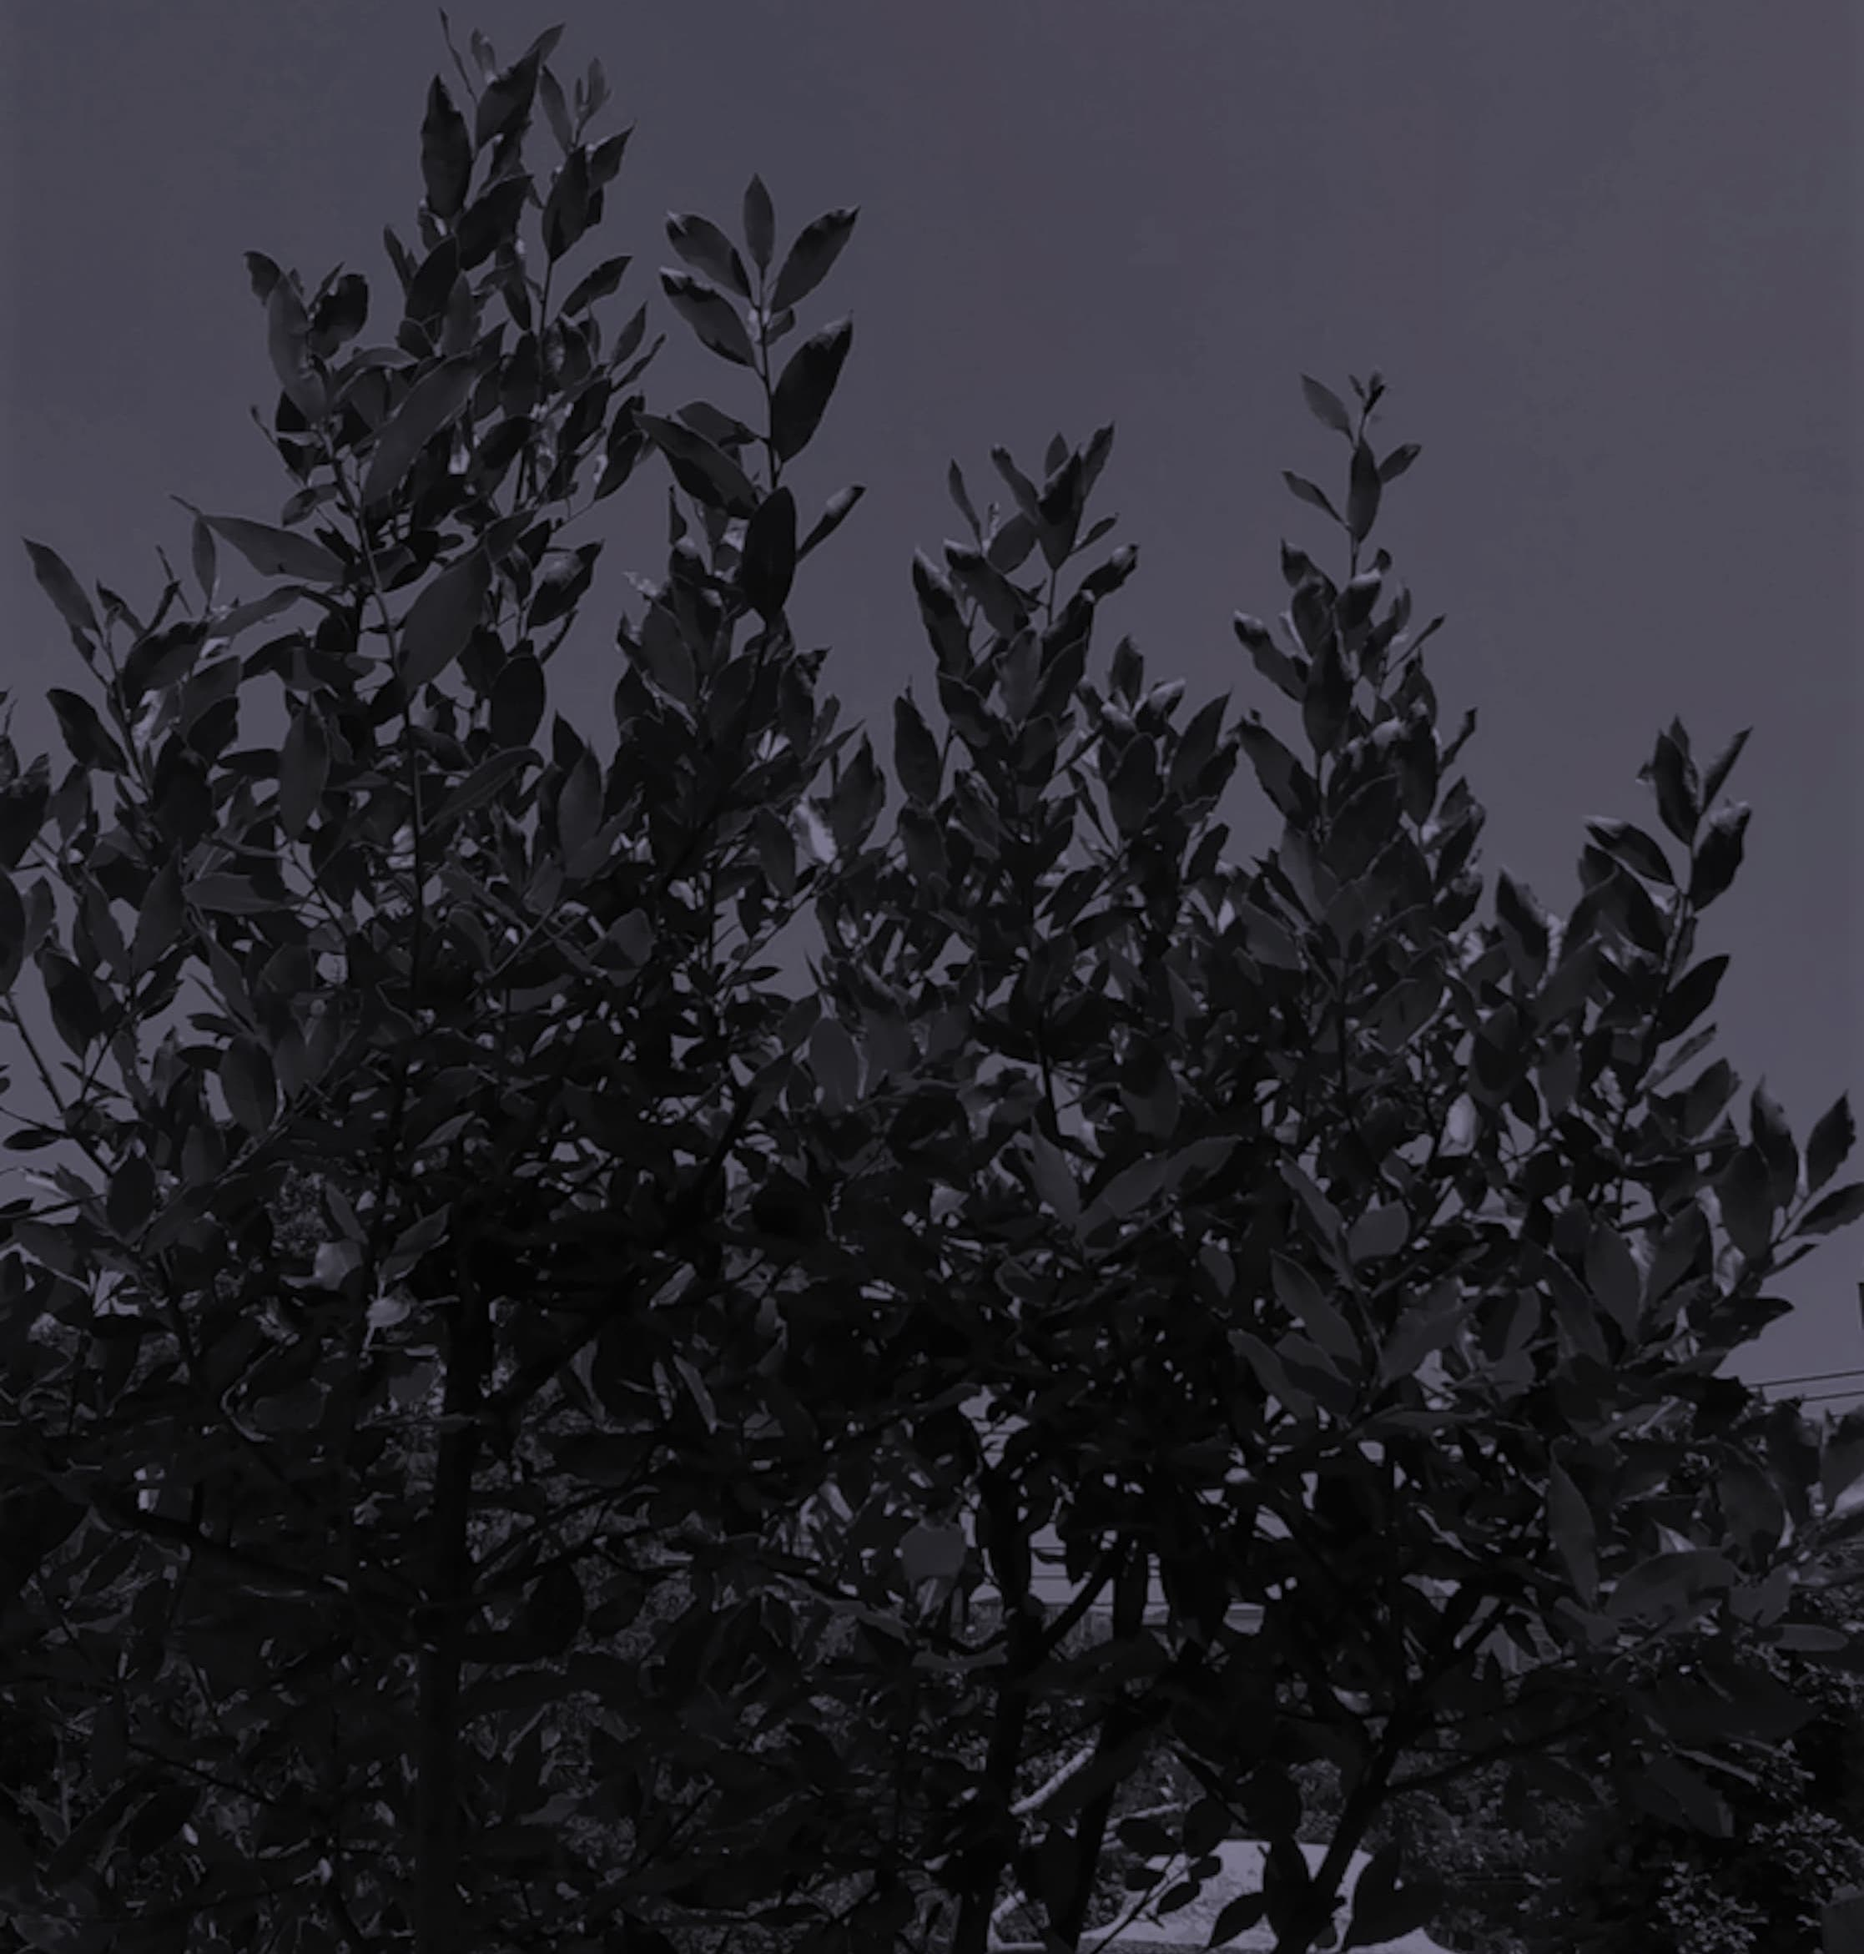
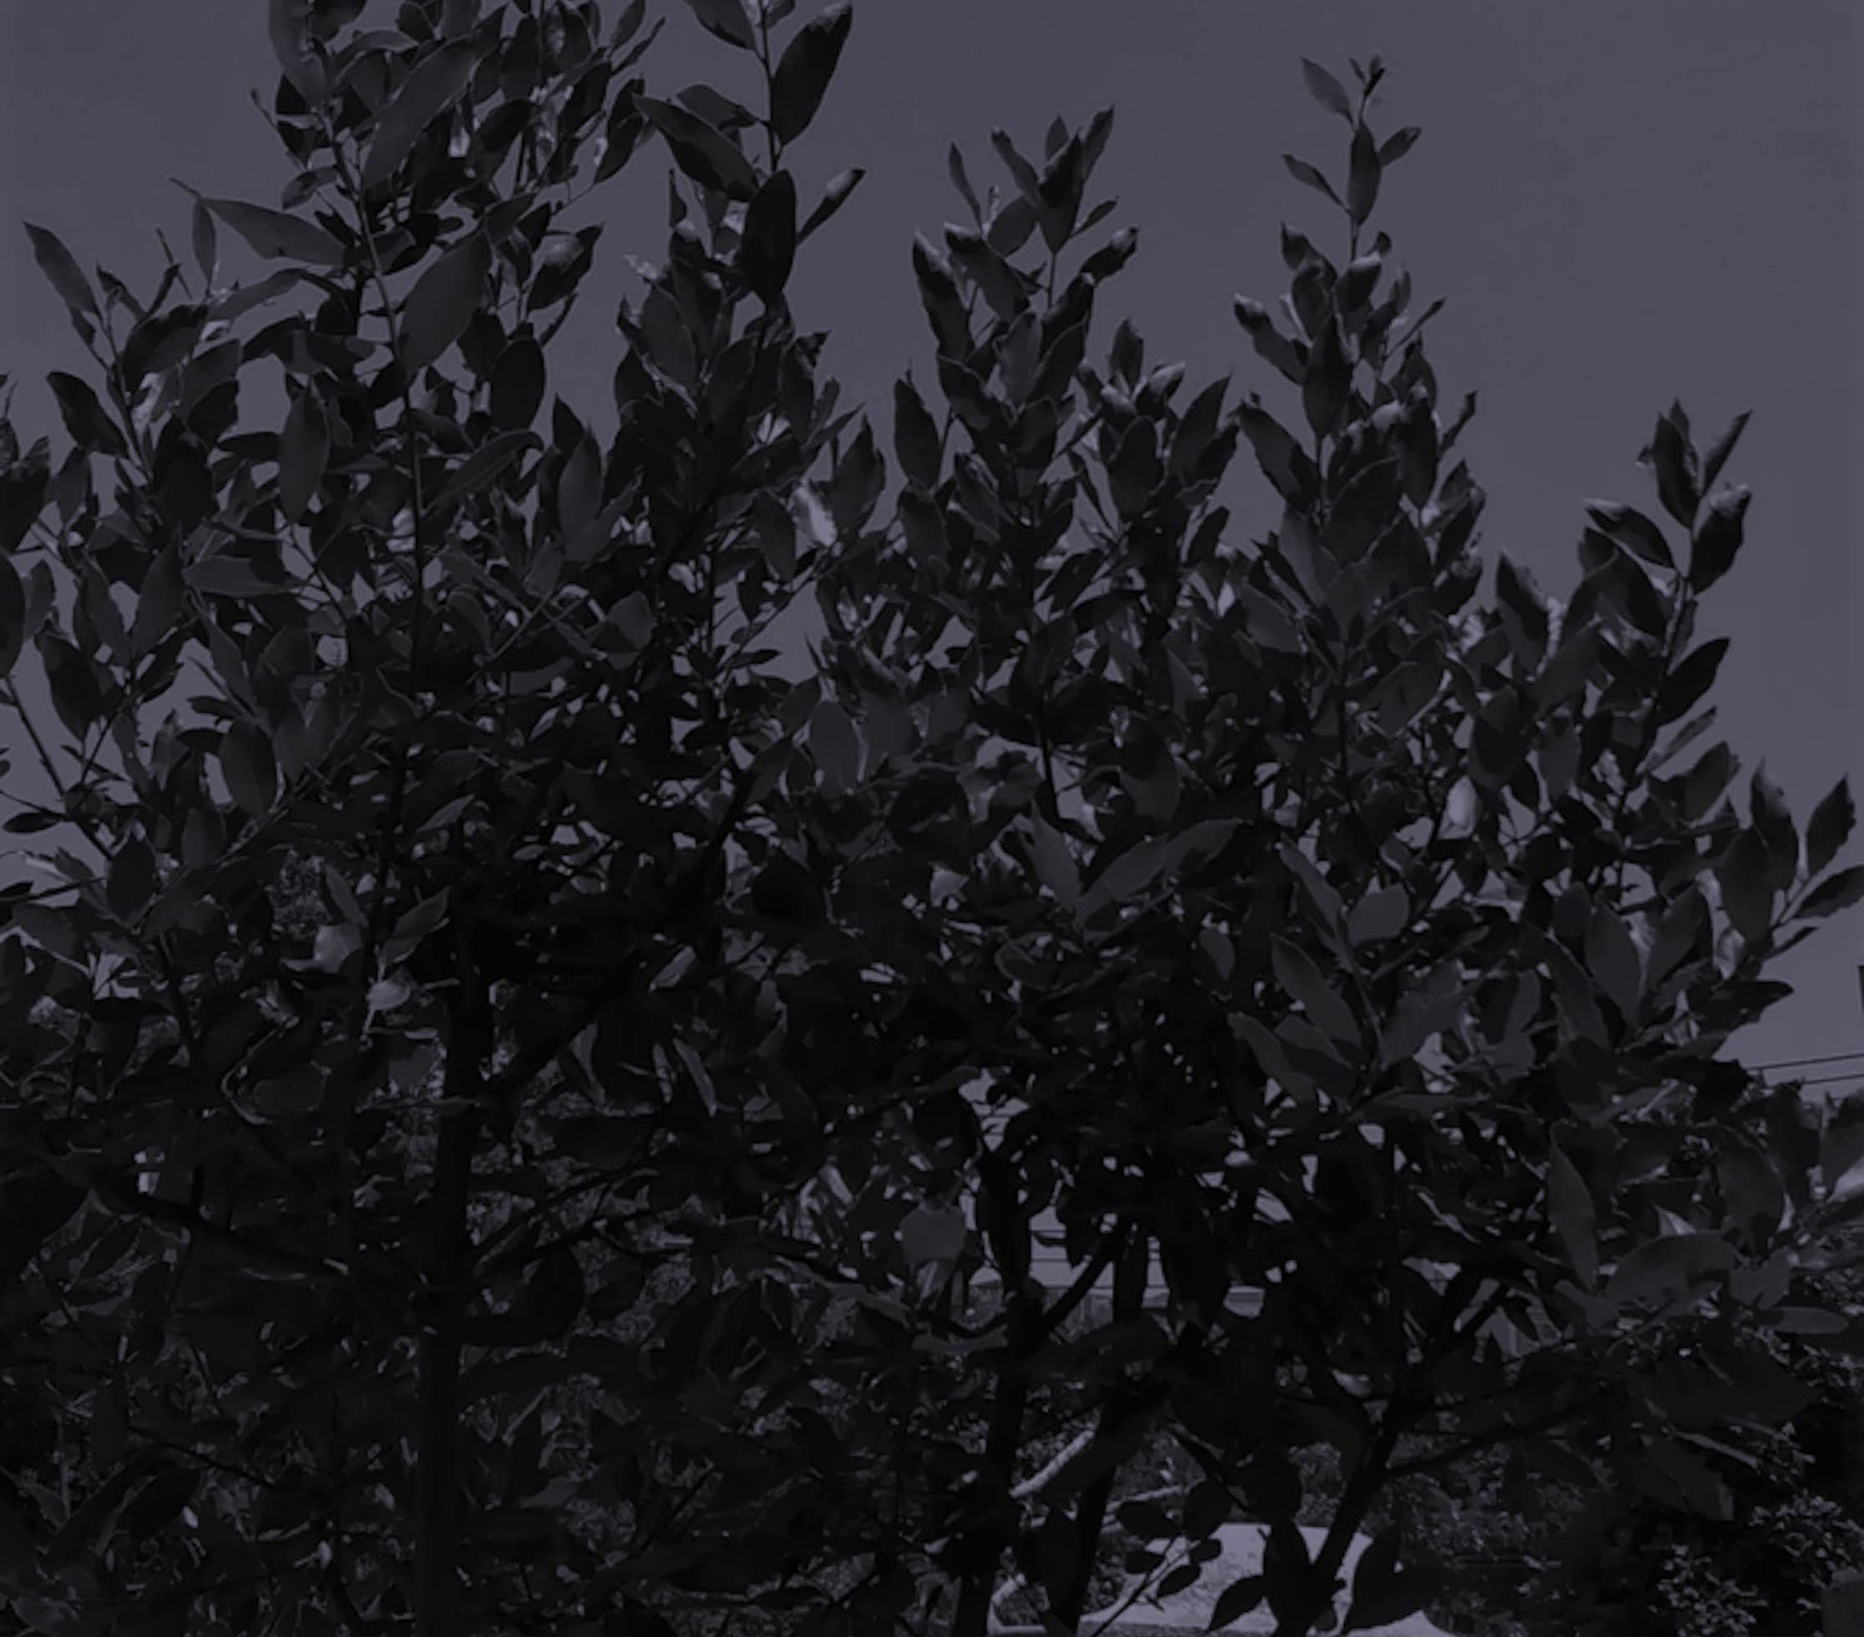
Header: 高さ調整、画像カット、aboutusにopacity設定

diff --git a/src/layout/Header.tsx b/src/layout/Header.tsx
@@ -39,20 +39,20 @@ export const Header: VFC<Props> = (props) => {
         <div
           className={cc([{ "opacity-100": props.opacity === "main" }, { "opacity-0": props.opacity === "aboutus" }])}
         >
-          <div className="hidden lg:block">
+          <div className="hidden md:block">
             <Image
               width="2234px"
-              height="350px"
+              height="401px"
               layout="responsive"
               src="/static/images/header/background-lg.jpg"
               alt={siteMetadata.author}
               priority
             />
           </div>
-          <div className="lg:hidden">
+          <div className="md:hidden">
             <Image
-              width="100%"
-              height="30%"
+              width="1800px"
+              height="401px"
               layout="responsive"
               src="/static/images/header/background.jpg"
               alt={siteMetadata.author}

diff --git a/src/layout/FluidLayout.tsx b/src/layout/FluidLayout.tsx
@@ -1,5 +1,5 @@
 import cc from "classcat";
-// import { useRouter } from "next/router";
+import { useRouter } from "next/router";
 import type { ReactNode, VFC } from "react";
 
 import { Footer } from "./Footer";
@@ -16,12 +16,11 @@ type Props = {
  * @package
  */
 export const FluidLayout: VFC<Props> = (props) => {
-  // const router = useRouter();
-  // const url = "/aboutus"
+  const router = useRouter();
+  const url = "/aboutus";
   return (
     <div className="grid grid-rows-[auto,1fr,auto] min-h-screen">
-      {/* {router.pathname === url ? <Header opacity="aboutus" /> : <Header opacity="main" />} */}
-      <Header opacity="main" />
+      {router.pathname === url ? <Header opacity="aboutus" /> : <Header opacity="main" />}
       <main
         className={cc([
           { "mx-5 break-all sm:mx-10 md:mx-auto md:w-11/12 lg:w-9/12": props.width === "main" },

diff --git a/src/pages/aboutus/index.tsx b/src/pages/aboutus/index.tsx
@@ -68,7 +68,7 @@ const AboutUs: NextPage = () => {
             background-size: cover;
             width: 100vw;
             min-height: 100vh;
-            background-position: center;
+            background-position: top;
           }
           @media (max-width: 639px) {
             .background {
